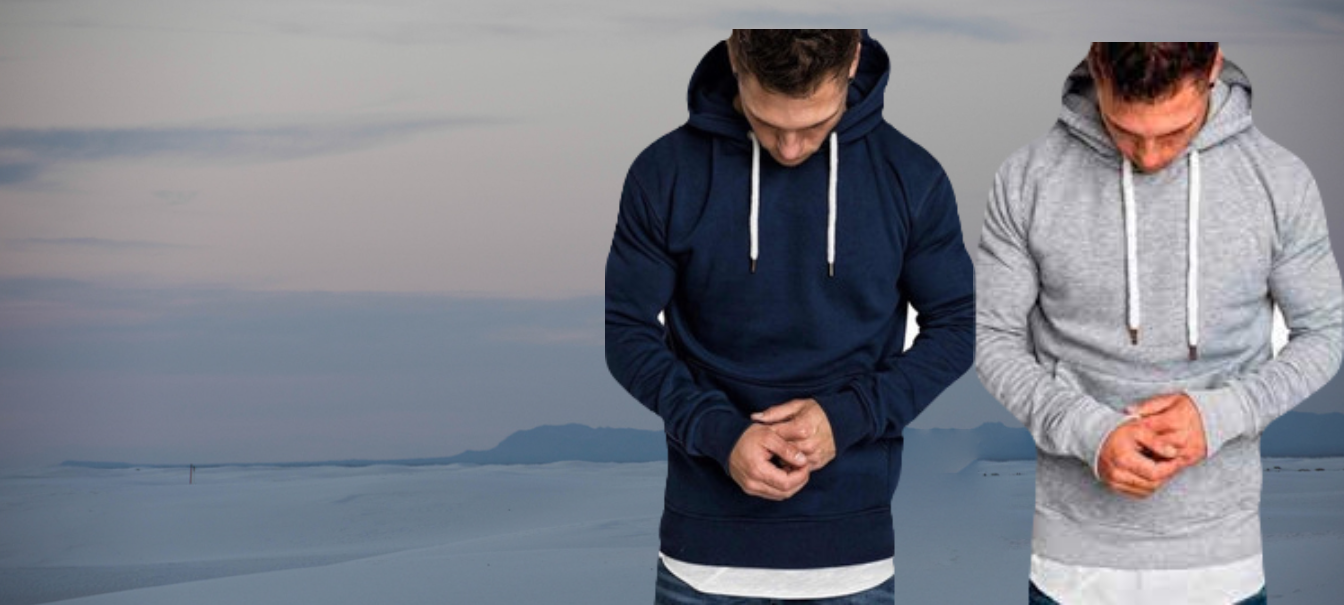
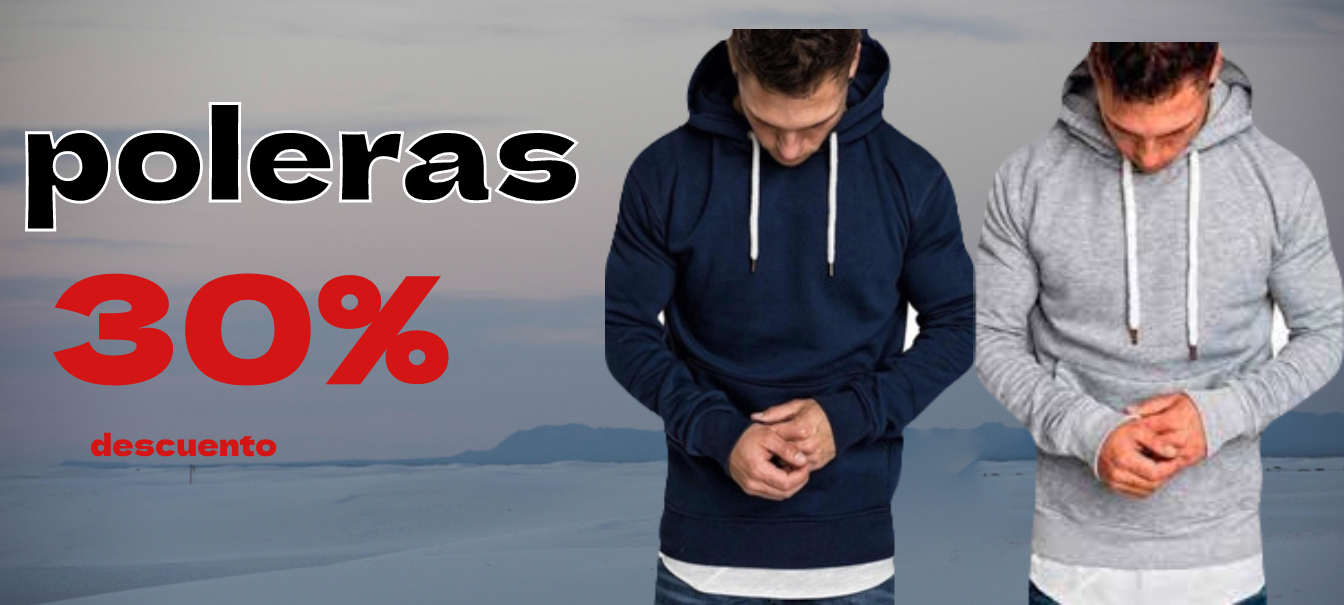
modificado01

Changed region(s): [[0.0, 0.1488, 0.4375, 0.3868], [0.0312, 0.4463, 0.3438, 0.6545], [0.0625, 0.714, 0.2188, 0.7736]]

diff --git a/index.html b/index.html
@@ -77,58 +77,31 @@
 </div>
 
 
-<div class="background-2" id="fotos" style="margin-top: 50px;">
-    <div class="container-fluid" > 
+<div class="background-2" id="fotos" style="margin-top: 50px;"> 
     <div class="row">
         <div class="col-12" style=" height: 10VH; background-color: #E0040B; color: #f1f1f1;">
             <h5 style="background-position: center; font-weight: bold; font-size: 45px;">SUPER OFERTAS</h5>
         </div>
-    </div>
-</div>
-
-    <div class="container-fluid" > 
-    <div class="row justify-content-between">
-        <div class="col-6 col-sm-6, col-md-6, col-lg-6, y col-xl-6 imagenoferta01" style="flex: 1;margin-right: 20px;">
-            <!--col-sm-*, col-md-*, col-lg-*, y col-xl-* PARA CELULAR,LAPTOP.TABLE-->
-            <h3 style="font-weight: bold; font-size: 45px;" data-aos="zoom-in">poleras</h3>
-            <div class="line-shape"></div>
-            <h6 style="font-weight: bold; color: #E0040B; font-size: 60px; text-align: start;">
-                30%
-            </h6>
-            <br>
-            <div class="main-center">
-                <a class="whatsapp-button"
-                    href="https://api.whatsapp.com/send?phone=960602544&text=¡Hola! Estoy interesado en obtener más información."
-                    target="_blank">Chatea con nosotros en WhatsApp</a>
+    </div> 
+ 
+        <div class="row">
+            <div class="col-6" >
+                 
+                    <img src="css/imagen/oferta.png"
+                        style="background-size: cover; background-repeat: no-repeat; max-width: 100%;" alt="hola">    
             </div>
-            <br>
-            <br>
-        </div>
-
-        <div class="col-6 imagenoferta02">
-            <h3 style="font-weight: bold; font-size: 45px;" data-aos="zoom-in">jogger</h3>
-            <div class="line-shape"></div>
-            <h6 style="font-weight: bold; color: #E0040B; font-size: 60px; text-align: start;">
-                30%
-            </h6>
-            <br>
-            <div class="main-center">
-                <a class="whatsapp-button"
-                    href="https://api.whatsapp.com/send?phone=960602544&text=¡Hola! Estoy interesado en obtener más información."
-                    target="_blank">Chatea con nosotros en WhatsApp</a>
+    
+            <div class="col-6 ">
+                <img src="css/imagen/oferta02.png" style="background-repeat: no-repeat; max-width: 100%;  " alt=""> 
             </div>
-            <br>
-            <br>
-        </div>
-    </div>
-    </div>
+        </div> 
 </div>
 
 
     
 <!--Carrusel de camisas-->
     <div class="background-2">
-        <div class="owl-carousel owl-theme col-lg-12 col-md-12 col-sm-12 col-12" style="margin-top: 20px;">
+        <div class="owl-carousel owl-theme col-lg-12 col-md-12 col-sm-12 col-12" style="margin-top: 30px;">
             <div class="item">
               <div class="card">
                 <div style="position: absolute;

diff --git a/css/sitio.css b/css/sitio.css
@@ -18,8 +18,10 @@ font-weight: bold;
     background-size: cover;
     background-position: 50% 0;
     background-repeat: no-repeat;
-    position: relative !important;
+    position: relative !important; 
 } 
+
+
 
 /** fin what-is */
 
@@ -41,14 +43,17 @@ font-weight: bold;
     background-image:linear-gradient(rgba(0, 0, 0, 0.3), rgba(0, 0, 0, 0.3)), url(imagen/oferta.png);/*oscureciendo imagen*/
     background-size: cover;
     background-repeat: no-repeat;  
-    max-width: 100%; 
+    max-width: 100%;  
 }
+ 
+
  .imagenoferta02{
     background-image:linear-gradient(rgba(0, 0, 0, 0.3), rgba(0, 0, 0, 0.3)), url(imagen/oferta02.png);/*oscureciendo imagen*/
     background-size: cover;
     background-repeat: no-repeat;
     max-width: 100%; 
  }
+ 
 
 .whatsapp-button {
     display: inline-block;
